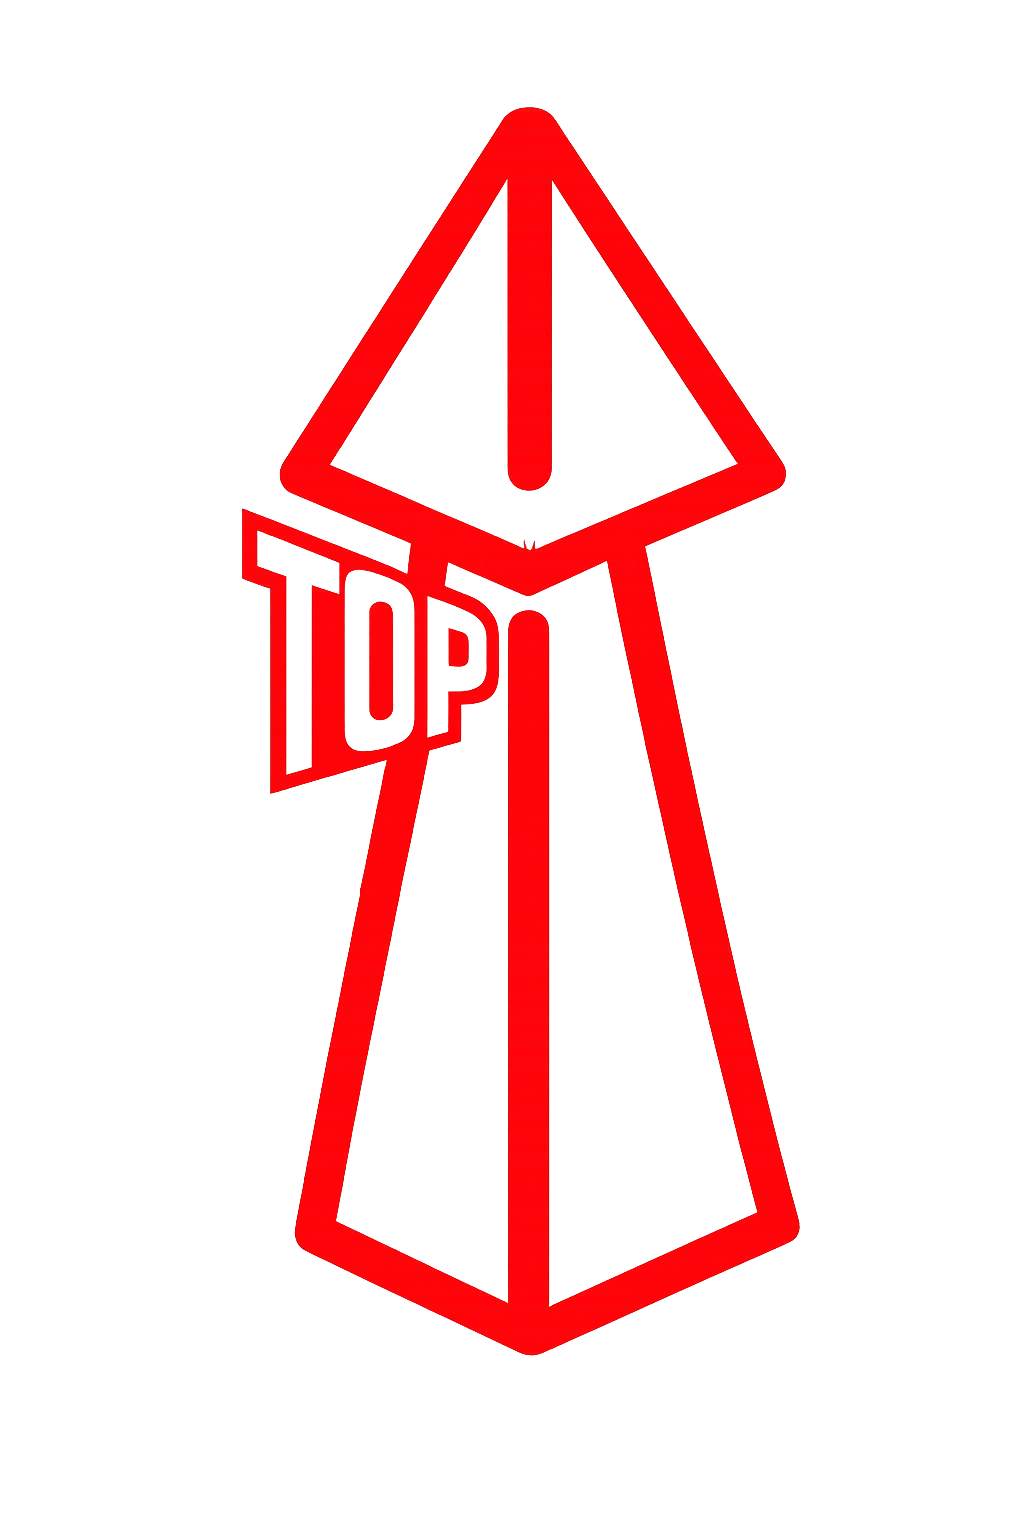
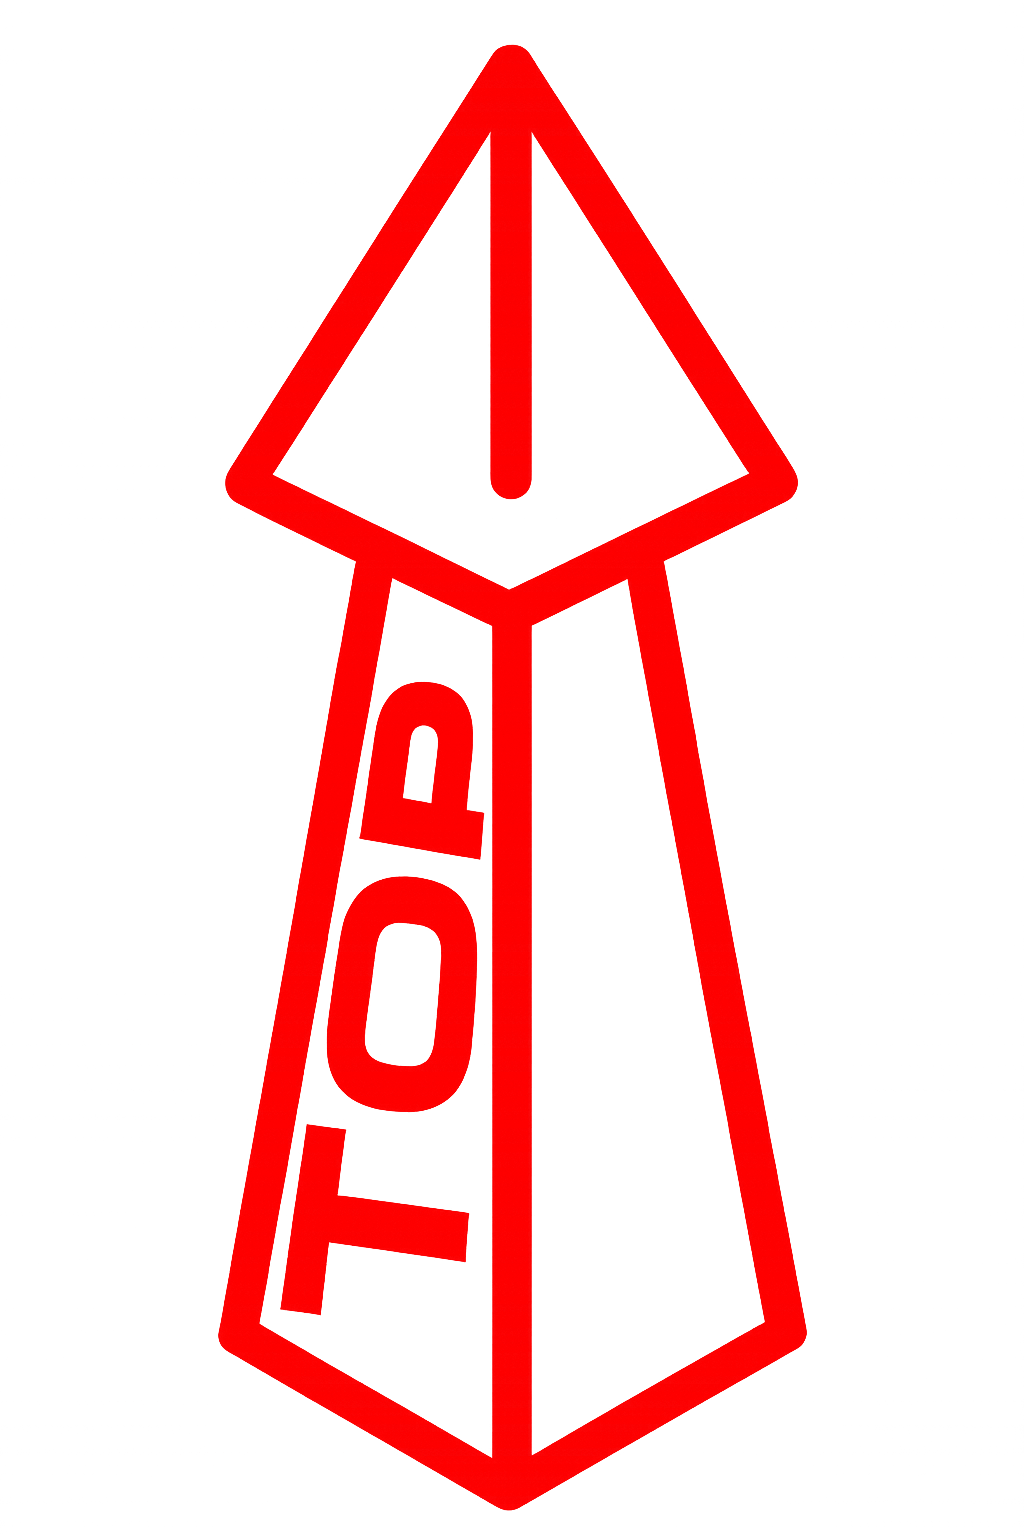
top arrow variations

Changed region(s): [[0.2188, 0.0312, 0.8125, 1.0], [0.6875, 0.6875, 0.75, 0.75]]

diff --git a/script.js b/script.js
@@ -718,11 +718,6 @@ document.addEventListener("DOMContentLoaded", () => {
     const footerIsVisible = scrollBottom >= pageBottom - 8;
 
     footer.classList.toggle("footer-visible", footerIsVisible);
-
-    if (backToTop) {
-      const footerClearance = footerIsVisible ? footer.offsetHeight + 12 : 0;
-      backToTop.style.setProperty("--footer-clearance", `${footerClearance}px`);
-    }
   }
 
   updateFooterVisibility();
@@ -732,7 +727,18 @@ document.addEventListener("DOMContentLoaded", () => {
   if (backToTop) {
     const reducedMotionQuery = window.matchMedia("(prefers-reduced-motion: reduce)");
 
-    function updateBackToTopVisibility() {
+    function updateBackToTopPosition() {
+      const maximumScroll = Math.max(1, document.documentElement.scrollHeight - window.innerHeight);
+      const scrollProgress = Math.min(1, Math.max(0, window.scrollY / maximumScroll));
+      const startingTop = Number.parseFloat(getComputedStyle(backToTop).top) || 16;
+      const footerHeight = footer ? footer.offsetHeight : 0;
+      const footerGap = 12;
+      const maximumTravel = Math.max(
+        0,
+        window.innerHeight - (startingTop * 2) - backToTop.offsetHeight - footerHeight - footerGap
+      );
+
+      backToTop.style.setProperty("--scroll-offset", `${scrollProgress * maximumTravel}px`);
       backToTop.classList.toggle("is-visible", window.scrollY > 8);
     }
 
@@ -743,8 +749,9 @@ document.addEventListener("DOMContentLoaded", () => {
       });
     });
 
-    updateBackToTopVisibility();
-    window.addEventListener("scroll", updateBackToTopVisibility, { passive: true });
+    updateBackToTopPosition();
+    window.addEventListener("scroll", updateBackToTopPosition, { passive: true });
+    window.addEventListener("resize", updateBackToTopPosition);
   }
 });
 

diff --git a/style.css b/style.css
@@ -99,10 +99,10 @@ html.is-loading body {
 }
 
 .back-to-top {
-    --footer-clearance: 0px;
+    --scroll-offset: 0px;
     position: fixed;
+    top: clamp(16px, 2.5vw, 28px);
     left: clamp(16px, 2.5vw, 28px);
-    bottom: calc(clamp(16px, 2.5vw, 28px) + var(--footer-clearance));
     z-index: 20;
     width: 52px;
     height: 68px;
@@ -114,15 +114,16 @@ html.is-loading body {
     opacity: 0;
     visibility: hidden;
     pointer-events: none;
-    transform: translateY(12px);
-    transition: bottom 0.25s ease, opacity 0.2s ease, transform 0.2s ease, visibility 0.2s ease;
+    transform: translate3d(0, calc(var(--scroll-offset) + 12px), 0);
+    transition: opacity 0.2s ease, visibility 0.2s ease;
+    will-change: transform;
 }
 
 .back-to-top.is-visible {
     opacity: 1;
     visibility: visible;
     pointer-events: auto;
-    transform: translateY(0);
+    transform: translate3d(0, var(--scroll-offset), 0);
 }
 
 .back-to-top img {

diff --git a/index.html b/index.html
@@ -14,7 +14,7 @@
   </div>
 
   <button id="back-to-top" class="back-to-top" type="button" aria-label="Back to top">
-    <img src="img/topArrowWText2.png" alt="">
+    <img src="img/topArrowWText.png" alt="">
   </button>
 
   <div class="floating-contacts" aria-label="Contact links">